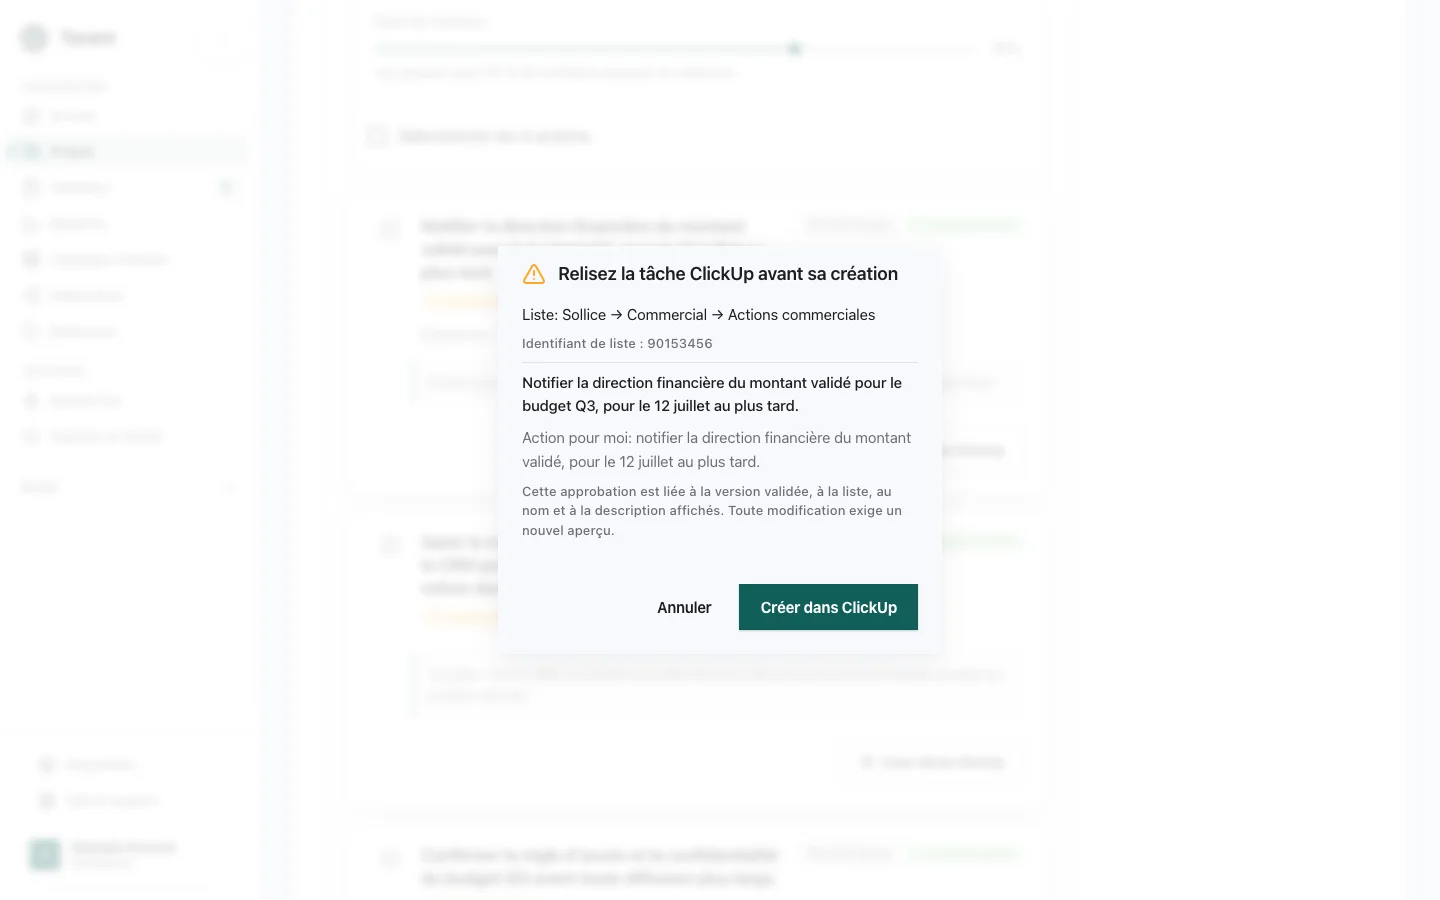
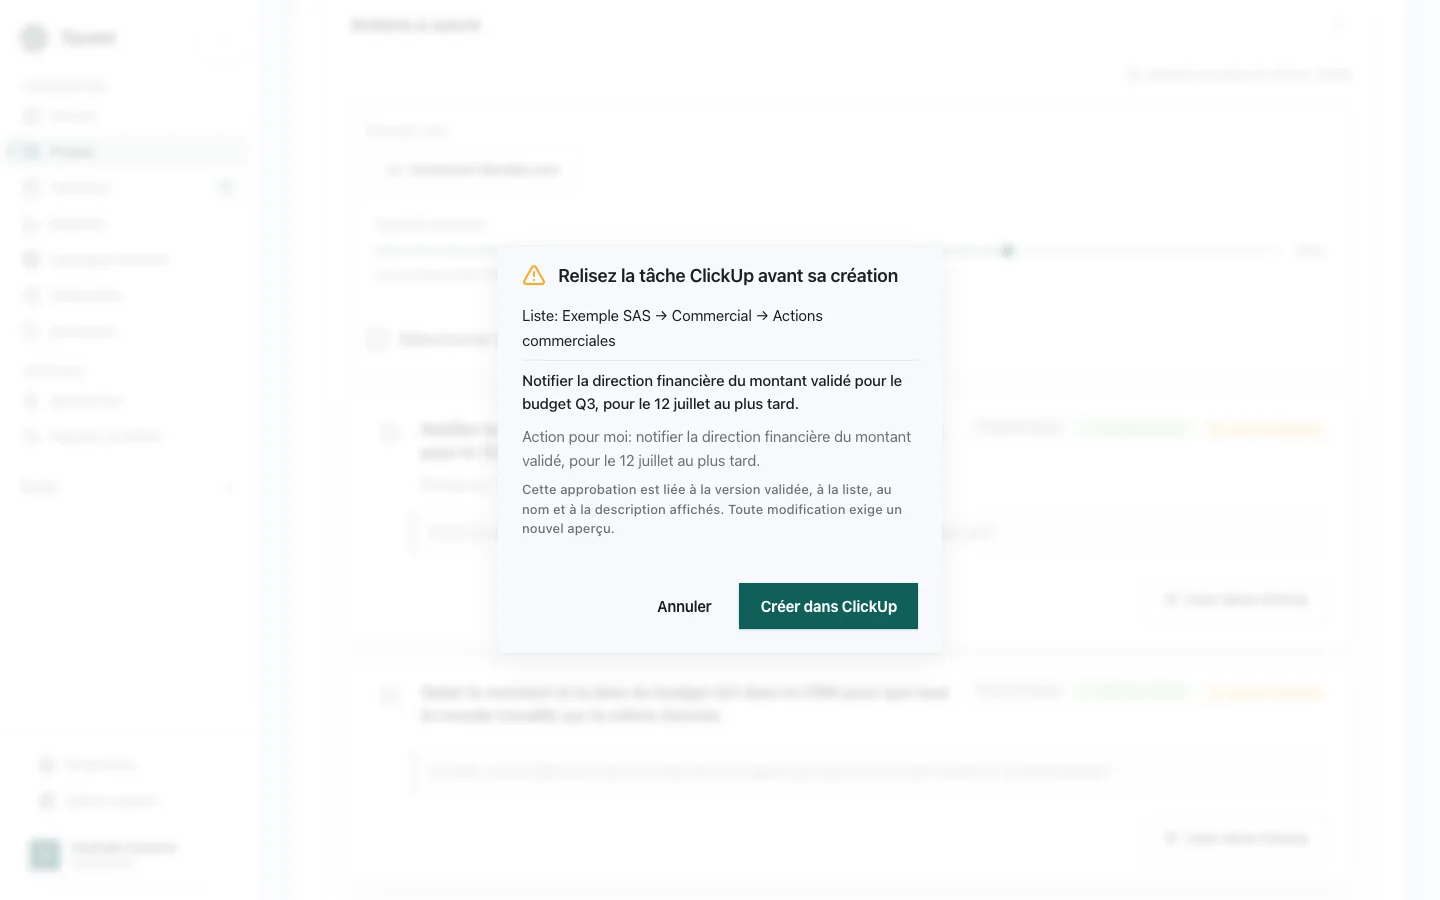
fix(site): captures produit sans nom réel — transcription et ClickUp refaits sur la démo Q3 (#6)
## Pourquoi

La relecture Dircom (PR #5) a nettoyé les textes mais pas les images. Plusieurs captures produit montraient un webinaire « égalité professionnelle » avec des personnes et des organisations nommées, et un espace ClickUp « Sollice » avec un identifiant de liste. Le kit de communication exige une permission écrite pour toute personne ou organisation nommée ; faute de pouvoir confirmer que ces noms sont des pseudonymes (scripts de masquage du 22/07 perdus), les captures concernées ont été refaites dans la recette Taveni sur la **revue commerciale Q3**, c'est-à-dire les données fictives déjà utilisées par la démo du site.

## Image par image

| Image | Avant | Après |
|---|---|---|
| `taveni-transcription-entites.webp` | « Webinaire egalite professionnelle juillet » : intervenantes Claire Voisin et Charlène Moreau, « Fondation Agir Ensemble », « votre entreprise Sollice » | **Refaite** : projet « Revue commerciale Q3 », transcription horodatée par intervenant avec Nathalie Dumont (compte de démonstration) et Karim Benali, 22 entités, même cadrage 1440×900 |
| `taveni-push-clickup-integrations.webp` | puce d'espace ClickUp « Sollice » | **Refaite** : espace « Exemple SAS » (société fictive du `context-example.json` de la page), destination et texte inchangés |
[…]

diff --git a/assets/i18n.js b/assets/i18n.js
@@ -508,7 +508,7 @@
             "pipeline.evidence.label": "Taveni — decision linked to its evidence",
             "pipeline.shot1.alt": "Taveni interface: the review queue of decisions, commitments and risks extracted from a meeting, with confidence level and status.",
             "pipeline.shot1.label": "Taveni — human review of decisions and actions",
-            "pipeline.shot2.alt": "Taveni transcript timestamped per speaker, with detected and validated entities.",
+            "pipeline.shot2.alt": "Taveni transcript of a sales review, timestamped per speaker, with detected and validated entities.",
             "pipeline.shot2.label": "Taveni — timestamped transcript and qualified entities",
             "pipeline.shot3.alt": "Taveni dialog to correct an item before validating it.",
             "pipeline.shot3.label": "Taveni — human correction before validation",
@@ -788,7 +788,7 @@
             "pipeline.evidence.label": "Taveni — decisión vinculada a su prueba",
             "pipeline.shot1.alt": "Interfaz de Taveni: cola de revisión de decisiones, compromisos y riesgos extraídos de una reunión, con nivel de confianza y estado.",
             "pipeline.shot1.label": "Taveni — revisión humana de decisiones y acciones",
-            "pipeline.shot2.alt": "Transcripción de Taveni con marcas de tiempo por interviniente, con entidades detectadas y validadas.",
+            "pipeline.shot2.alt": "Transcripción de Taveni de una revisión comercial, con marcas de tiempo por interviniente, con entidades detectadas y validadas.",
             "pipeline.shot2.label": "Taveni — transcripción con marcas de tiempo y entidades cualificadas",
             "pipeline.shot3.alt": "Diálogo de Taveni para corregir un elemento antes de validarlo.",
             "pipeline.shot3.label": "Taveni — corrección humana antes de la validación",
@@ -1068,7 +1068,7 @@
             "pipeline.evidence.label": "Taveni — 决策及其证据",
             "pipeline.shot1.alt": "Taveni 界面：从会议中提取的决策、承诺与风险复审队列，含置信度与状态。",
             "pipeline.shot1.label": "Taveni — 决策与行动的人工复审",
-            "pipeline.shot2.alt": "Taveni 按发言人标注时间戳的转写，包含已检测并验证的实体。",
+            "pipeline.shot2.alt": "Taveni 对销售复盘会议的转写，按发言人标注时间戳，包含已检测并验证的实体。",
             "pipeline.shot2.label": "Taveni — 带时间戳的转写与合格实体",
             "pipeline.shot3.alt": "Taveni 对话框，用于在验证前修正条目。",
             "pipeline.shot3.label": "Taveni — 验证前的人工修正",

diff --git a/es/index.html b/es/index.html
@@ -3478,7 +3478,7 @@
                         <figcaption class="doc-frame-label">Taveni — revisión humana de decisiones y acciones</figcaption>
                     </figure>
                     <figure class="doc-frame doc-frame--transcription">
-                        <img src="/assets/taveni-transcription-entites.webp" width="1440" height="900" alt="Transcripción de Taveni con marcas de tiempo por interviniente, con entidades detectadas y validadas." loading="lazy" decoding="async">
+                        <img src="/assets/taveni-transcription-entites.webp" width="1440" height="900" alt="Transcripción de Taveni de una revisión comercial, con marcas de tiempo por interviniente, con entidades detectadas y validadas." loading="lazy" decoding="async">
                         <figcaption class="doc-frame-label">Taveni — transcripción con marcas de tiempo y entidades cualificadas</figcaption>
                     </figure>
                     <figure class="doc-frame doc-frame--correction">

diff --git a/index.html b/index.html
@@ -3477,7 +3477,7 @@
                         <figcaption class="doc-frame-label">Taveni — relecture humaine des décisions et actions</figcaption>
                     </figure>
                     <figure class="doc-frame doc-frame--transcription">
-                        <img src="assets/taveni-transcription-entites.webp" width="1440" height="900" alt="Transcription Taveni horodatée par intervenante, avec entités détectées puis validées." loading="lazy" decoding="async">
+                        <img src="assets/taveni-transcription-entites.webp" width="1440" height="900" alt="Transcription Taveni d’une revue commerciale, horodatée par intervenant, avec entités détectées puis validées." loading="lazy" decoding="async">
                         <figcaption class="doc-frame-label">Taveni — transcription horodatée et entités qualifiées</figcaption>
                     </figure>
                     <figure class="doc-frame doc-frame--correction">

diff --git a/en/index.html b/en/index.html
@@ -3478,7 +3478,7 @@
                         <figcaption class="doc-frame-label">Taveni — human review of decisions and actions</figcaption>
                     </figure>
                     <figure class="doc-frame doc-frame--transcription">
-                        <img src="/assets/taveni-transcription-entites.webp" width="1440" height="900" alt="Taveni transcript timestamped per speaker, with detected and validated entities." loading="lazy" decoding="async">
+                        <img src="/assets/taveni-transcription-entites.webp" width="1440" height="900" alt="Taveni transcript of a sales review, timestamped per speaker, with detected and validated entities." loading="lazy" decoding="async">
                         <figcaption class="doc-frame-label">Taveni — timestamped transcript and qualified entities</figcaption>
                     </figure>
                     <figure class="doc-frame doc-frame--correction">

diff --git a/zh/index.html b/zh/index.html
@@ -3478,7 +3478,7 @@
                         <figcaption class="doc-frame-label">Taveni — 决策与行动的人工复审</figcaption>
                     </figure>
                     <figure class="doc-frame doc-frame--transcription">
-                        <img src="/assets/taveni-transcription-entites.webp" width="1440" height="900" alt="Taveni 按发言人标注时间戳的转写，包含已检测并验证的实体。" loading="lazy" decoding="async">
+                        <img src="/assets/taveni-transcription-entites.webp" width="1440" height="900" alt="Taveni 对销售复盘会议的转写，按发言人标注时间戳，包含已检测并验证的实体。" loading="lazy" decoding="async">
                         <figcaption class="doc-frame-label">Taveni — 带时间戳的转写与合格实体</figcaption>
                     </figure>
                     <figure class="doc-frame doc-frame--correction">
